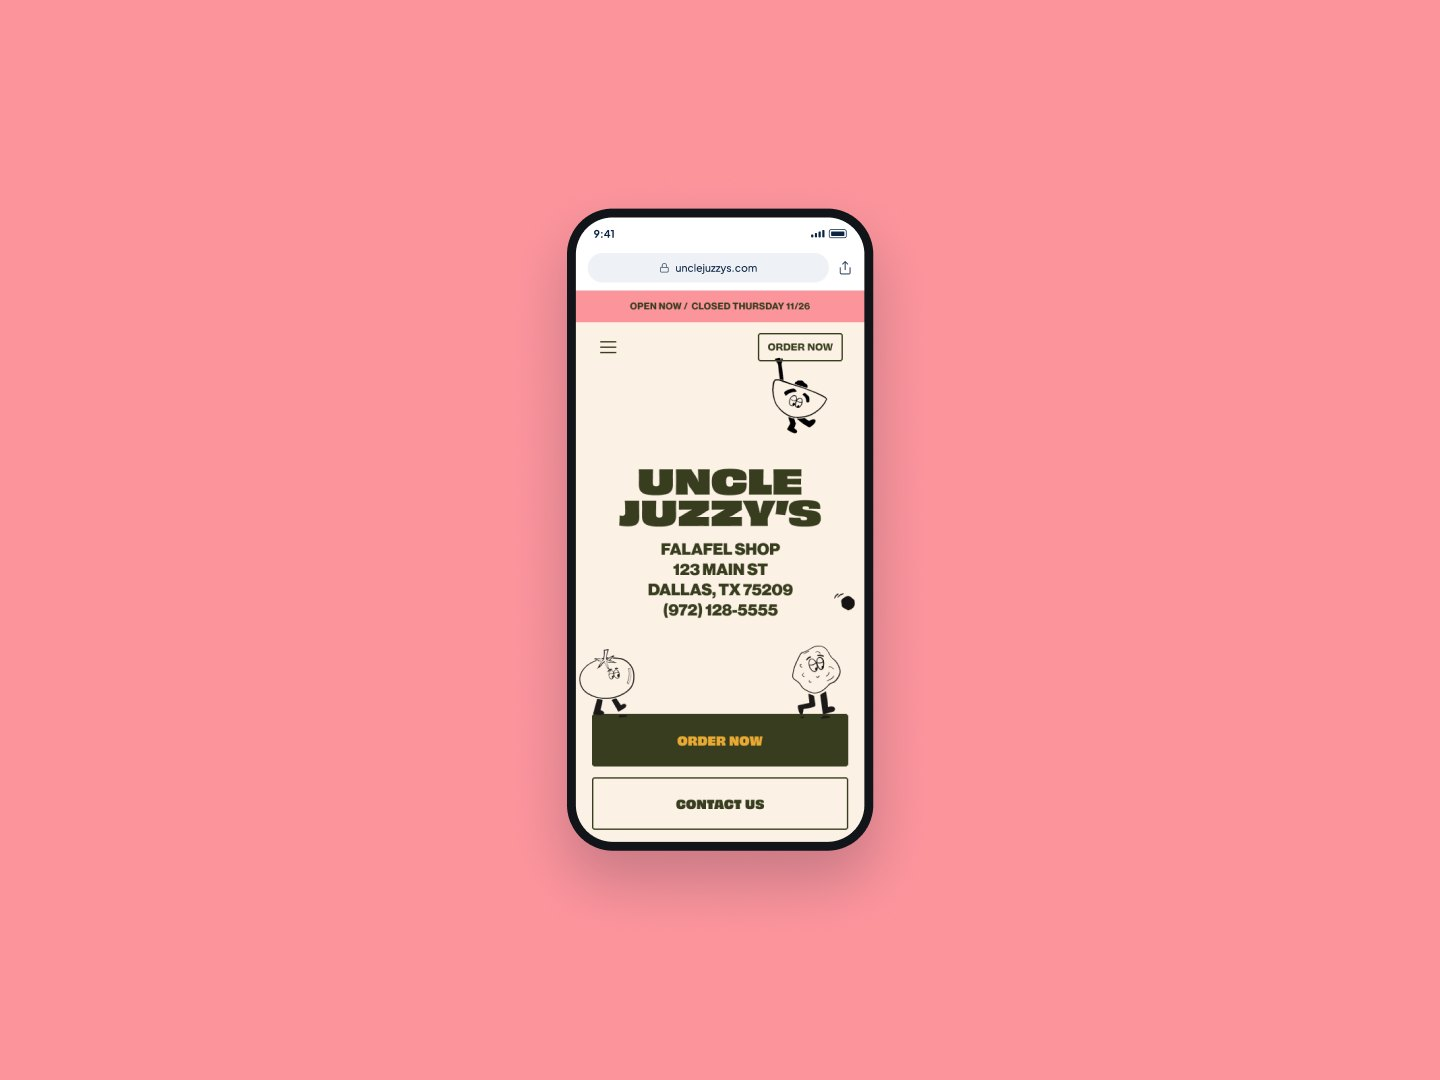
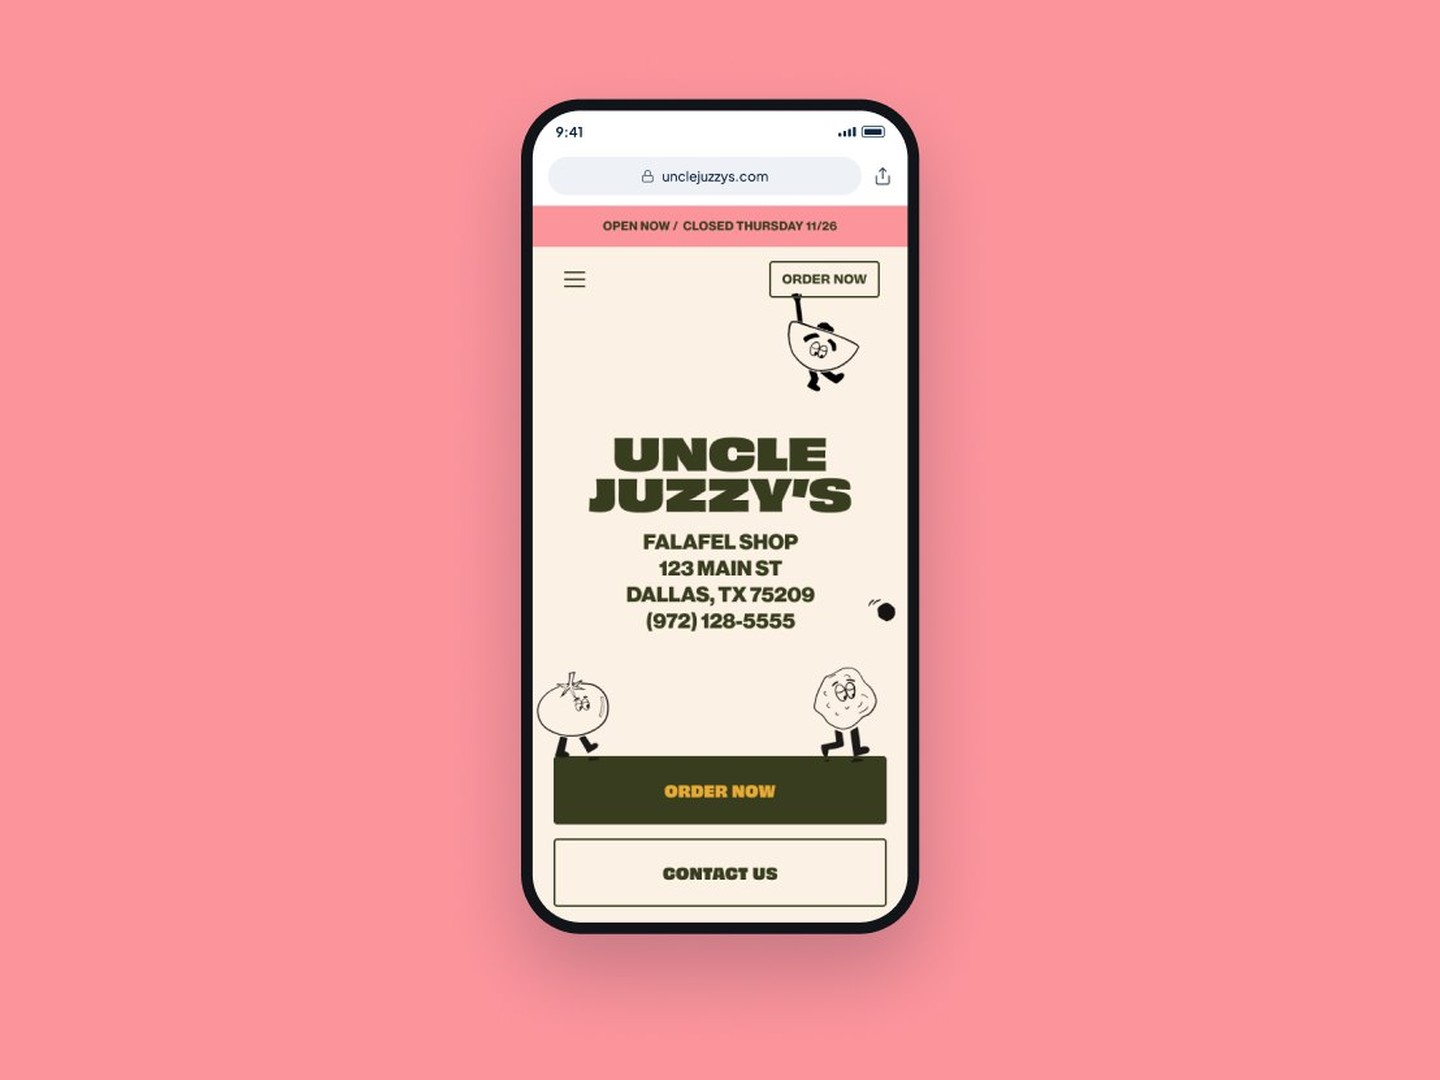
Vibe deck for Juzzy's, RadPad under Acura, Boombox dots, bigger Juzzy phone
- Juzzy's brand popup now shows all 10 slides of the Vibe brand
  presentation (contact emails hidden in the export, and blanked from
  the tile)
- RadPad emails move to column 2, under Acura
- Boombox tile dots sit on top of the scrolling page
- Bigger phone in the Juzzy's mobile website popup

Claude-Session: https://claude.ai/code/session_01DoMJVhPM61S6qeyrrrouu3

Changed region(s): [[0.3438, 0.0917, 0.6562, 0.9167]]

diff --git a/src/content/more-work.ts b/src/content/more-work.ts
@@ -51,6 +51,7 @@ export const moreWork: MoreWorkItem[][] = [
       title: "Boombox",
       description: "Booking flow for hosted team events.",
       size: [285, 212],
+      dots: true,
       media: {
         kind: "scroll",
         scroll: {
@@ -112,19 +113,25 @@ export const moreWork: MoreWorkItem[][] = [
     },
     {
       title: "Uncle Juzzy’s",
-      description: "Brand for a restaurant that never opened.",
+      description: "Vibe brand presentation for a restaurant that never opened.",
       size: [285, 175],
       media: { kind: "image", src: "tile-juzzy-brand.jpg" },
       popup: {
         project: "Uncle Juzzy’s",
-        title: "Restaurant brand",
+        title: "Vibe brand presentation",
         description:
-          "A brand for Uncle Juzzy’s, an Israeli street food restaurant that never opened: the mission, personality, what set it apart and an early visual concept.",
+          "Vibe, the brand presentation for Uncle Juzzy’s, an Israeli street food restaurant that never opened. It covers what sets it apart, its personality, its mission and three visual concepts to pick from.",
         slides: [
-          { kind: "image", src: "s-juzzy-brand-1.jpg", alt: "Rough Cut visual concept with a collage of references" },
-          { kind: "image", src: "s-juzzy-brand-2.jpg", alt: "The Uncle Juzzy’s mission" },
-          { kind: "image", src: "s-juzzy-brand-3.jpg", alt: "Brand personality" },
-          { kind: "image", src: "s-juzzy-brand-4.jpg", alt: "Key differentiators" },
+          { kind: "image", src: "s-vibe-1.jpg", alt: "Cover: Vibe" },
+          { kind: "image", src: "s-vibe-2.jpg", alt: "Let’s recap: differentiators, personality, mission" },
+          { kind: "image", src: "s-vibe-3.jpg", alt: "Key differentiators: understated, nostalgic, done the right way" },
+          { kind: "image", src: "s-vibe-4.jpg", alt: "Who we are and who we’re not" },
+          { kind: "image", src: "s-vibe-5.jpg", alt: "The Uncle Juzzy’s mission" },
+          { kind: "image", src: "s-vibe-6.jpg", alt: "Visual concepts: let’s pick a direction" },
+          { kind: "image", src: "s-vibe-7.jpg", alt: "Concept 01: Rough Cut" },
+          { kind: "image", src: "s-vibe-8.jpg", alt: "Concept 02: Color & Chaos" },
+          { kind: "image", src: "s-vibe-9.jpg", alt: "Concept 03: Contemporary Nostalgia" },
+          { kind: "image", src: "s-vibe-10.jpg", alt: "Thank you" },
         ],
       },
     },
@@ -139,19 +146,6 @@ export const moreWork: MoreWorkItem[][] = [
         description:
           "Built Jawnt’s full sign-up flow and card management experience for GoCard, a transit card people use to ride the bus.",
         slides: [{ kind: "image", src: "s-jawnt-1.jpg", alt: "Three GoCard sign-up screens in phones" }],
-      },
-    },
-    {
-      title: "RadPad",
-      description: "Emails for renters and landlords.",
-      size: [285, 200],
-      media: { kind: "image", src: "tile-radpad.jpg" },
-      popup: {
-        project: "RadPad",
-        title: "Emails for renters and landlords",
-        description:
-          "Emails for RadPad, a rental marketplace: rent payout summaries for landlords, a referral gift, and a welcome email that explains how it all works.",
-        slides: [{ kind: "image", src: "s-radpad-1.jpg", alt: "Three RadPad emails side by side" }],
       },
     },
   ],
@@ -227,8 +221,21 @@ export const moreWork: MoreWorkItem[][] = [
         ],
       },
     },
+    {
+      title: "RadPad",
+      description: "Emails for renters and landlords.",
+      size: [285, 200],
+      media: { kind: "image", src: "tile-radpad.jpg" },
+      popup: {
+        project: "RadPad",
+        title: "Emails for renters and landlords",
+        description:
+          "Emails for RadPad, a rental marketplace: rent payout summaries for landlords, a referral gift, and a welcome email that explains how it all works.",
+        slides: [{ kind: "image", src: "s-radpad-1.jpg", alt: "Three RadPad emails side by side" }],
+      },
+    },
     { title: "Coming soon", description: "", size: [285, 338], soonImage: "s-lk-2.jpg" },
-    { title: "Coming soon", description: "", size: [285, 214], soonImage: "s-juzzy-brand-1.jpg" },
+    { title: "Coming soon", description: "", size: [285, 214], soonImage: "s-vibe-8.jpg" },
   ],
   // Column 3
   [
